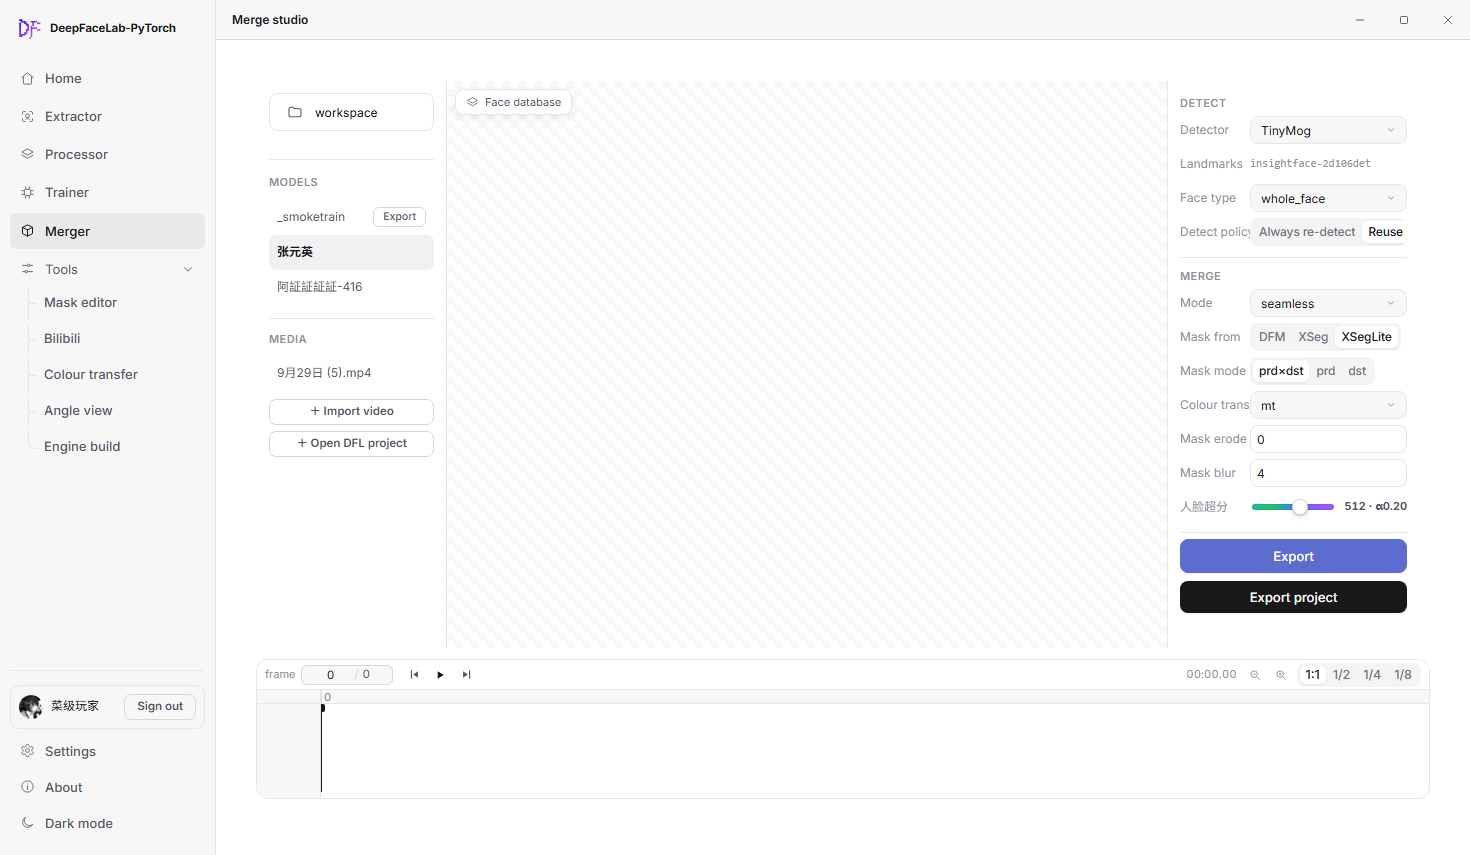
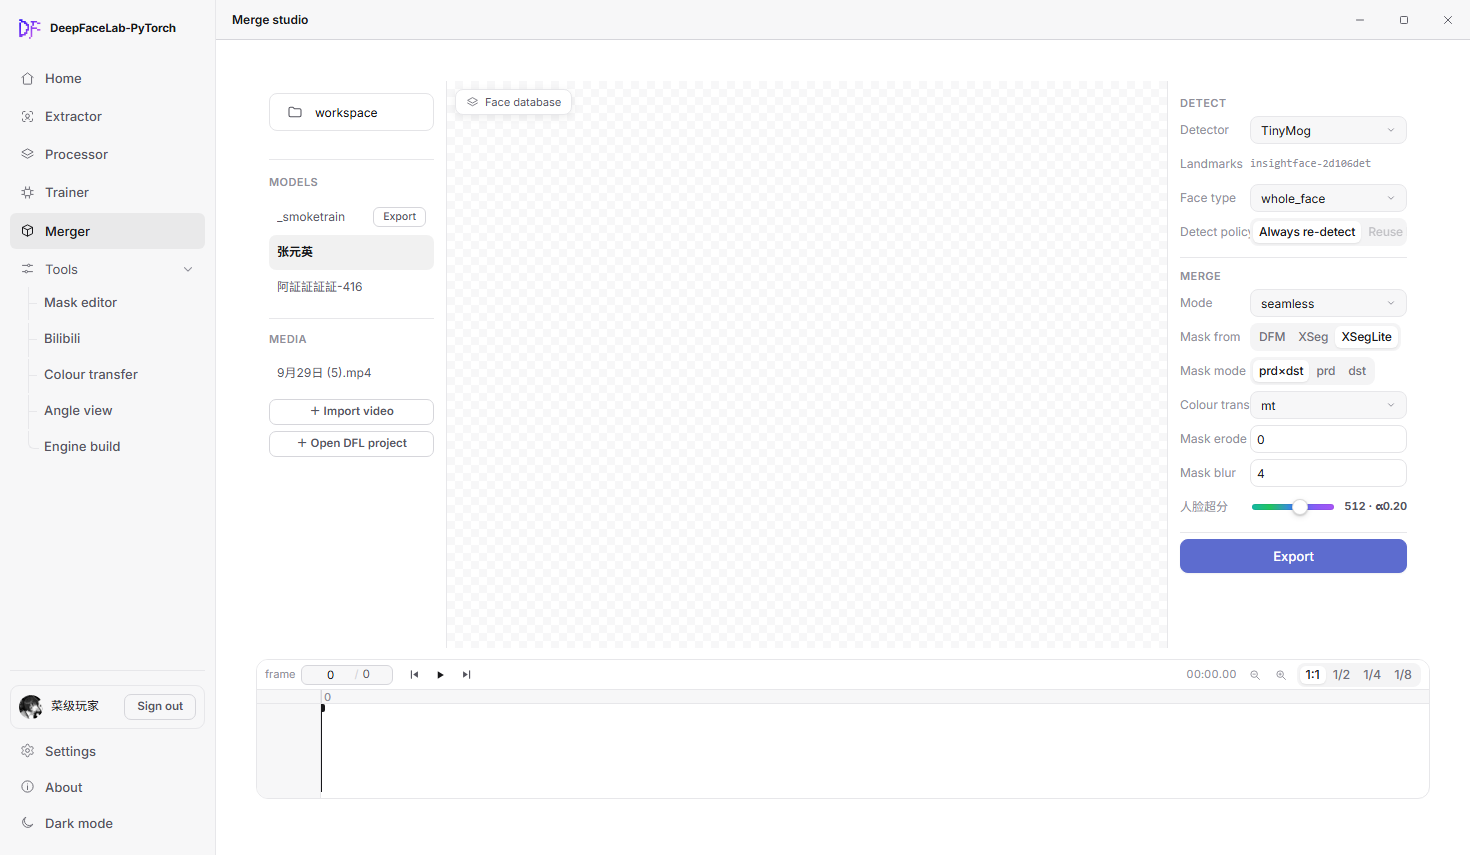
feat(merge): 检测策略真正决定导出走哪条路；两个按钮合成一个「导出」
用户定下的语义：上方「检测策略」那格（总是重检 / 沿用 DFL）就是区分两条流水线的东西，
所以界面上不该有两个并列按钮。

一、判定规则（唯一一处，_dfl_mode_state）
  同名文件夹存在 且 该文件夹下有 aligned/ 且 aligned 至少一张图 且 文件夹里至少一张帧图
  → 可以开启 DFL 项目模式。
  不检查人脸与帧图一一对应，不查元数据完整性，不抽样 —— 用户明确要求不加附加检测。
  候选目录依次是：显式 project/path 参数 → <工作区>/<视频名去扩展名> → 视频同级同名目录。

二、后端
  · 新增 GET /api/merge/dfl-mode → {ok, dir, aligned, why}（界面拿它决定「沿用 DFL」能不能选）；
  · /api/merge/export 读 detect_policy=reuse/reuse_dfl/dfl/project → 校验后转交 merge_export_project()，
    不可用时 400 + 具体原因（缺帧图 / 缺 aligned / 找不到同名文件夹 三种文案分开）。

三、前端
  · 删掉「导出项目」按钮，只留「导出」；
  · mgDetectPolicy() 读那格分段；mgRunExport() 在 reuse 时先问 /api/merge/dfl-mode，
    可用就起项目导出（复用现成的 mgpjStart + 项目进度页），不可用弹原因；
  · 素材变化（打开项目 / 切就绪项目）与进设置页时各刷一次可用性；首屏 1.2s 后也刷一次；
  · 「沿用 DFL」不可用时压暗（.seg b.dis）+ 点它被捕获阶段拦下并说明为什么。

四、顺手修掉契约审计的一个假报警
  api_contract_audit 的 AST 计数把 include_in_schema=False 的路由也数进去了
  （app.py 直接吐 /static/js/app.js 那条），所以它一直报 openapi 132 / ast 133。
  现在跳过这些装饰器：openapi 133 = ast 133，EXIT 0。

验证：
  · 规则单测：合格项目 ok / 由 video 推同名文件夹 ok / 缺帧图与 aligned 空各自给出对应原因；
  · HTTP 冒烟：GET dfl-mode 三种输入都对；POST export+reuse 在不可用时 400 且文案清楚；
  · merge_ui_accept 33/0；api_contract_audit EXIT 0（133 op / 125 path）；check_bundle OK；
  · README 05-merge 重拍：只剩一个「导出」，当前素材没有 DFL 项目，所以「Reuse」是压暗的。

Changed region(s): [[0.7959, 0.669, 0.9796, 0.7298], [0.8571, 0.2433, 0.949, 0.2737]]

diff --git a/app/web/js/app/10-merge-settings.js b/app/web/js/app/10-merge-settings.js
@@ -2058,6 +2058,7 @@
 
     function mgOpenExportSettings() {
       if (!mgSyncExportGate()) {
+      mgDflModeSync();   /* 素材可能刚换过：进设置页前刷一次「沿用 DFL」的可用性 */
         mgToastErr("export-nosel", "先选一个模型",
                    "左栏「模型」里点一个（可多选），导出要用它换脸", "warn", 4000);
         return false;
@@ -2067,6 +2068,65 @@
       return true;
     }
     window.mgOpenExportSettings = mgOpenExportSettings;
+
+    /* ---------------- 检测策略：决定「导出」走哪条流水线 ----------------
+       · 总是重检   从源视频重新检测（融合流水线）
+       · 沿用 DFL   用同名文件夹里现成的 aligned/（DFL 项目模式，不重新检测）
+       能不能选「沿用 DFL」由后端一处判（/api/merge/dfl-mode → _dfl_mode_state）：
+       同名文件夹 + aligned/ + 至少一张帧图。别在前端自己猜路径。 */
+    var MGPJ_UNAVAILABLE = "";
+    function mgDflSeg() {
+      return document.querySelector('#p-merge .seg[data-k="detect"]');
+    }
+    function mgDflModeSync(done) {
+      var seg = mgDflSeg();
+      if (!seg) { if (done) done(null); return; }
+      var bs = Array.prototype.slice.call(seg.querySelectorAll("b"));
+      var reuse = bs[1];
+      if (!reuse) { if (done) done(null); return; }
+      var q = [];
+      var vp = (typeof mgVidPath === "function") ? String(mgVidPath() || "") : "";
+      if (vp) q.push("video=" + encodeURIComponent(vp));
+      if (window.__mergeInputDir) q.push("path=" + encodeURIComponent(window.__mergeInputDir));
+      fetch("/api/merge/dfl-mode" + (q.length ? ("?" + q.join("&")) : ""))
+        .then(function (r) { return r.json(); })
+        .then(function (d) {
+          var st = (d && d.data) || d || {};
+          MGPJ_UNAVAILABLE = st.ok ? "" : String(st.why || "不可用");
+          reuse.classList.toggle("dis", !st.ok);
+          reuse.setAttribute("aria-disabled", st.ok ? "false" : "true");
+          reuse.title = st.ok
+            ? ("DFL 项目模式：用 " + st.dir + " 里现成的 aligned/，不重新检测")
+            : ("不能选：「" + MGPJ_UNAVAILABLE + "」。要这一档请先抽帧 + 人脸对齐，或改用「总是重检」");
+          if (!st.ok && reuse.classList.contains("on")) {
+            reuse.classList.remove("on");
+            if (bs[0]) bs[0].classList.add("on");
+          }
+          if (done) done(st);
+        })
+        .catch(function () { if (done) done(null); });
+    }
+    window.mgDflModeSync = mgDflModeSync;
+
+    (function bindDflSeg() {
+      var seg = mgDflSeg();
+      if (!seg || seg.dataset.dflBound) return;
+      seg.dataset.dflBound = "1";
+      /* 捕获阶段拦住「点不可用的那一格」：分段的高亮是通用逻辑加的，
+         这里必须在它之前把事件吃掉，否则会出现"亮着但用不了"。 */
+      seg.addEventListener("click", function (e) {
+        var b = e.target && e.target.closest ? e.target.closest("b") : null;
+        if (b && b.classList.contains("dis")) {
+          e.stopPropagation();
+          e.preventDefault();
+          mgToastErr("pj-unavailable", "不能选「沿用 DFL」", MGPJ_UNAVAILABLE || "还没有可用的 DFL 项目", "warn", 6000);
+          return;
+        }
+        mgDflModeSync();
+      }, true);
+    })();
+    /* 首屏进来也同步一次（素材可能在上次会话里就打开了） */
+    setTimeout(function () { try { mgDflModeSync(); } catch (e) {} }, 1200);
 
     var exBtn = $("mgExport");
     if (exBtn && !exBtn.dataset.bound) {

diff --git a/app/web/js/app/20-progress-fused.js b/app/web/js/app/20-progress-fused.js
@@ -175,6 +175,7 @@
       mgpFusedPaint({ running: true, msg: "启动快速导出…", vid: {} });
       document.dispatchEvent(new CustomEvent("merge:export-start", { detail: payload }));
 
+
       fetch("/api/merge/export", {
         method: "POST", headers: { "Content-Type": "application/json" },
         body: JSON.stringify(body)
@@ -312,9 +313,43 @@
 
     /* 真跑一次合成。工作台里的「导出」会先走到导出设置页，
        两个「开始导出」（#mgStartExport2 在工作台、#mgStartExport 在子页）共用这一份逻辑。 */
+    /* 检测策略（合成器上方那格「总是重检 / 沿用 DFL」）——**唯一的区分依据**：
+         · 总是重检：从源视频重新检测，走融合流水线；
+         · 沿用 DFL：用同名文件夹里现成的 aligned/，走 DFL 项目模式（不重新检测）。
+       可用性判据在后端一处（_dfl_mode_state）：同名文件夹 + aligned/ + 至少一张帧图。 */
+    function mgDetectPolicy() {
+      var v = "";
+      try { v = String(mgSegVal("detect", "总是重检") || ""); } catch (e) { v = ""; }
+      return (v.indexOf("沿用") >= 0) ? "reuse" : "redetect";
+    }
+    window.mgDetectPolicy = mgDetectPolicy;
+
     function mgRunExport(payload) {
       payload = payload || {};
       document.dispatchEvent(new CustomEvent("merge:export-start", { detail: payload }));
+
+      if (mgDetectPolicy() === "reuse") {
+        /* 沿用 DFL：先问后端这个素材能不能开项目模式，能就直接起项目导出。 */
+        var q = [];
+        var vp = mgVidPath();
+        if (vp) q.push("video=" + encodeURIComponent(vp));
+        if (window.__mergeInputDir) q.push("path=" + encodeURIComponent(window.__mergeInputDir));
+        fetch("/api/merge/dfl-mode" + (q.length ? ("?" + q.join("&")) : ""))
+          .then(function (r) { return r.json(); })
+          .then(function (d) {
+            var st = (d && d.data) || d || {};
+            if (!st.ok) {
+              mgToastErr("pj-unavailable", "不能走 DFL 项目模式", String(st.why || ""), "warn", 6000);
+              return;
+            }
+            if (window.mgpjStart) window.mgpjStart(st.dir);
+            else toast("导出未启动", "项目导出模块没加载", "error");
+          })
+          .catch(function (e) {
+            toast("导出未启动", String((e && e.message) || e).slice(0, 120), "error");
+          });
+        return;
+      }
 
       var inputDir = window.__mergeInputDir || "";
       /* 视频模式：只要打开了源视频就能导出，不需要先抽帧 + 对齐成项目。

diff --git a/app/web/js/app/02-merge-preview.js b/app/web/js/app/02-merge-preview.js
@@ -190,6 +190,7 @@
       if (!r2.ok) throw new Error(d2.detail || "打开失败");
 
       window.__mergeInputDir = p;
+      if (window.mgDflModeSync) setTimeout(window.mgDflModeSync, 0);   /* 素材换了：刷「沿用 DFL」可用性 */
       /* 「打开项目」这条路从来没写过 window.__mv：预览取图一直是 no-path，
          时间轴也拿不到这次的帧数。顺手补上（keep/重建的 key 也靠它才算得对）。 */
       var mv = window.__mv;
@@ -249,6 +250,7 @@
       row.dataset.path = project;
       row.innerHTML = '<span class="nm">' + name + '</span><span class="tag">' + (frames || 0) + ' 帧</span>';
       row.addEventListener("click", function () {
+      if (window.mgDflModeSync) setTimeout(window.mgDflModeSync, 0);   /* 素材换了：刷「沿用 DFL」可用性 */
         window.__mergeInputDir = project;
         window.mgOpenPrepared(project, frames, 0);
       });
@@ -271,6 +273,7 @@
     if (!project) {
       toast("打开素材", "这个项目没有路径，打不开", "error");
       return;
+      if (window.mgDflModeSync) setTimeout(window.mgDflModeSync, 0);   /* 素材换了：刷「沿用 DFL」可用性 */
     }
     window.__mergeInputDir = project;
     fetch("/api/merge/open", {

diff --git a/app/web/index.html b/app/web/index.html
@@ -761,10 +761,6 @@
                    真正发请求的是那一页底部的「开始导出」。左栏一个模型都没选时禁用。 -->
               <button class="btn pri" id="mgExport" style="width:100%">导出</button>
               <div class="mgexport-hint" id="mgExportHint" hidden>先选一个模型</div>
-              <!-- 标准 DFL 项目模式：先逐帧合成到 <项目>/merged/，再编码成片。
-                   和上面那个「导出」（4.0 MergeStudio 一口气出 mp4）并列，两条路都在。 -->
-              <button class="btn" id="mgExportProject" style="width:100%;margin-top:8px"
-                      title="逐帧合成到 &lt;项目&gt;/merged/ 再编码成片 · 可断点续跑">导出项目</button>
             </div>
           </aside>
         </div>

diff --git a/app/web/css/app.css b/app/web/css/app.css
@@ -2806,6 +2806,8 @@ html[data-theme="dark"] #p-merge .mgempty { background: rgba(12, 16, 24, .42); }
   max-width: 100%;
   overflow: hidden;
 }
+/* 分段里"当前不可选"的那一格（例：没有 DFL 项目时的「沿用 DFL」） */
+.seg b.dis { opacity: .4; cursor: not-allowed; }
 #p-merge .mgright .seg b {
   padding: 4px 8px;
   font-size: 11px;

diff --git a/app/server/backend_merge/routes.py b/app/server/backend_merge/routes.py
@@ -40,6 +40,63 @@ router = APIRouter()
 # ============================================================
 # 路由
 # ============================================================
+# ============================================================
+# DFL 项目模式：可用性判定 + 单一入口
+# ============================================================
+def _dfl_mode_state(video: str = "", path: str = "", project: str = "") -> dict:
+    """「能不能走 DFL 项目模式」的**唯一**判定。
+
+    规则（用户定死的，别再往里加检查）：
+      同名文件夹存在
+      且 该文件夹下有 aligned/
+      且 aligned/ 里至少一张图
+      且 该文件夹里至少一张帧图
+      → 视为可以开启 DFL 项目模式。
+
+    **不检查人脸与帧图一一对应**，不检查元数据完整性，不抽样比对 —— 那些是导出时
+    真出问题再报错的事，不该挡在门口。
+    """
+    cands = []
+    for raw in (project, path):
+        raw = str(raw or "").strip()
+        if raw:
+            cands.append(Path(raw))
+    vraw = str(video or "").strip()
+    if vraw:
+        v = Path(vraw)
+        stem = v.stem                      # 同名文件夹：<视频名>/（不含扩展名）
+        cands.append(Path(WORKSPACE) / stem)
+        cands.append(v.parent / stem)
+    seen = set()
+    tried = []
+    for d in cands:
+        key = str(d).lower()
+        if key in seen:
+            continue
+        seen.add(key)
+        tried.append(str(d))
+        if not d.is_dir():
+            continue
+        aligned = d / "aligned"
+        frames = _scan_first(d, _PROJ_FRAME_EXT, 1)
+        faces = _scan_first(aligned, {".jpg", ".jpeg"}, 1) if aligned.is_dir() else []
+        if frames and faces:
+            return {"ok": True, "dir": str(d), "aligned": str(aligned), "why": ""}
+        if not frames:
+            return {"ok": False, "dir": str(d), "aligned": str(aligned),
+                    "why": "同名文件夹里没有帧图：%s（先抽帧）" % d}
+        return {"ok": False, "dir": str(d), "aligned": str(aligned),
+                "why": "同名文件夹里没有 aligned/ 或它是空的：%s（先跑人脸对齐）" % aligned}
+    return {"ok": False, "dir": "", "aligned": "",
+            "why": "找不到同名文件夹（找过：%s）" % ("、".join(tried) if tried else "无输入")}
+
+
+@router.get("/api/merge/dfl-mode")
+@_api
+def merge_dfl_mode(video: str = "", path: str = "", project: str = ""):
+    """给界面用：当前素材能不能开 DFL 项目模式（判据见 _dfl_mode_state）。"""
+    return _ok(**_dfl_mode_state(video=video, path=path, project=project))
+
 @router.get("/api/merge/videos")
 @_api
 def merge_videos(dir: str = ""):
@@ -305,6 +362,21 @@ def merge_export(body: dict):
       · 给了帧目录 -> 老路：4.0 MergeStudio 子进程一口气出 mp4（下面的代码）。
     """
     body = _as_dict(body)
+    # ---- 检测策略：沿用 DFL = 走项目模式（用现成 aligned，不重新检测）----
+    # 这是**两个按钮合成一个按钮之后唯一的区分依据**（界面上那格「总是重检 / 沿用 DFL」）。
+    # 判定规则见 _dfl_mode_state()：同名文件夹 + aligned/ + 至少一张帧图，仅此而已。
+    _policy = str(body.get("detect_policy") or "").strip().lower().replace("-", "_")
+    if _policy in ("reuse", "reuse_dfl", "dfl", "project"):
+        _st = _dfl_mode_state(video=str(body.get("video") or body.get("source_video") or ""),
+                              path=str(body.get("input_dir") or ""),
+                              project=str(body.get("project_dir") or body.get("project") or ""))
+        if not _st.get("ok"):
+            raise _BadInput("DFL 项目模式不可用：%s" % (_st.get("why") or "未知原因"))
+        _sub = dict(body)
+        _sub["project_dir"] = _st["dir"]
+        _sub.setdefault("frames_dir", _st["dir"])
+        _sub.setdefault("aligned_dir", _st["aligned"])
+        return merge_export_project(_sub)
     # ---- 收到请求先回显一份（脱敏）：路径只留文件名、base64 换成长度 ----
     _eff.log_request("/api/merge/export", body)
 

diff --git a/app/tools/audit/api_contract_audit.py b/app/tools/audit/api_contract_audit.py
@@ -86,9 +86,15 @@ def _ast_op_count() -> int:
             if not isinstance(node, (ast.FunctionDef, ast.AsyncFunctionDef)):
                 continue
             for dec in node.decorator_list:
-                if isinstance(dec, ast.Call) and isinstance(dec.func, ast.Attribute) \
-                        and dec.func.attr.lower() in VERBS:
-                    n += 1
+                if not (isinstance(dec, ast.Call) and isinstance(dec.func, ast.Attribute)
+                        and dec.func.attr.lower() in VERBS):
+                    continue
+                # include_in_schema=False 的路由不进 openapi（例：app.py 里直接吐
+                # /static/js/app.js 的那条），交叉验证不数它 —— 否则永远差 1。
+                if any(k.arg == "include_in_schema" and isinstance(k.value, ast.Constant)
+                       and k.value.value is False for k in dec.keywords):
+                    continue
+                n += 1
     return n
 
 
